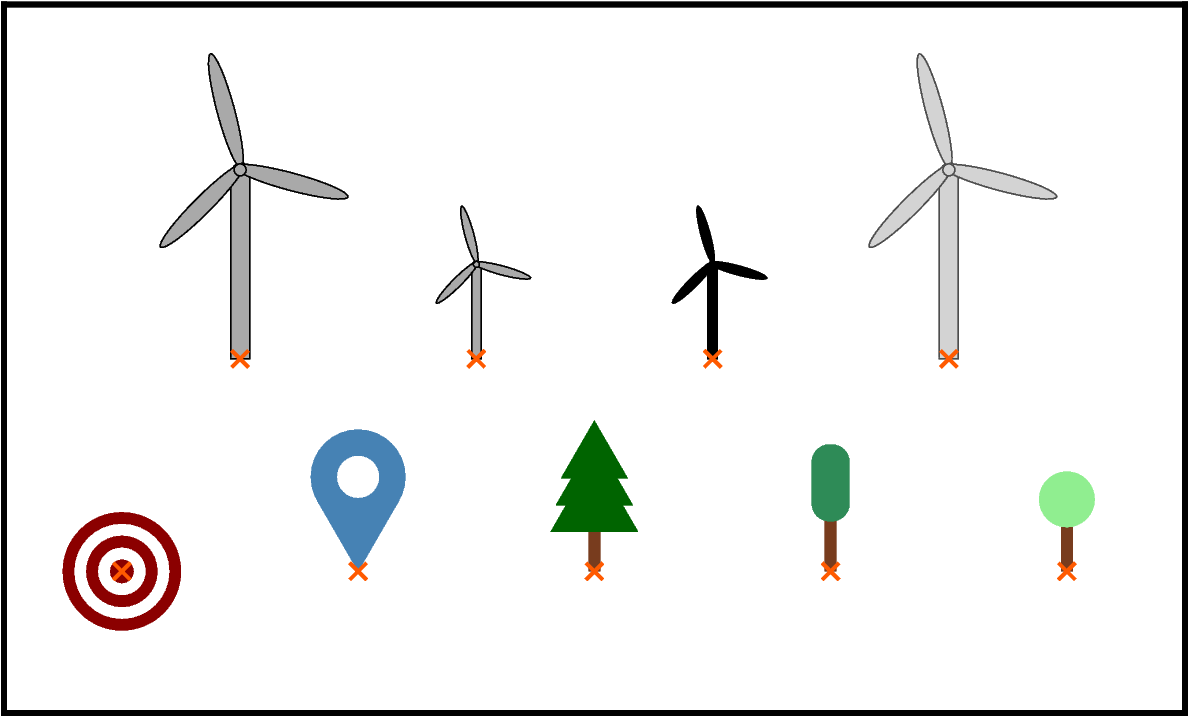
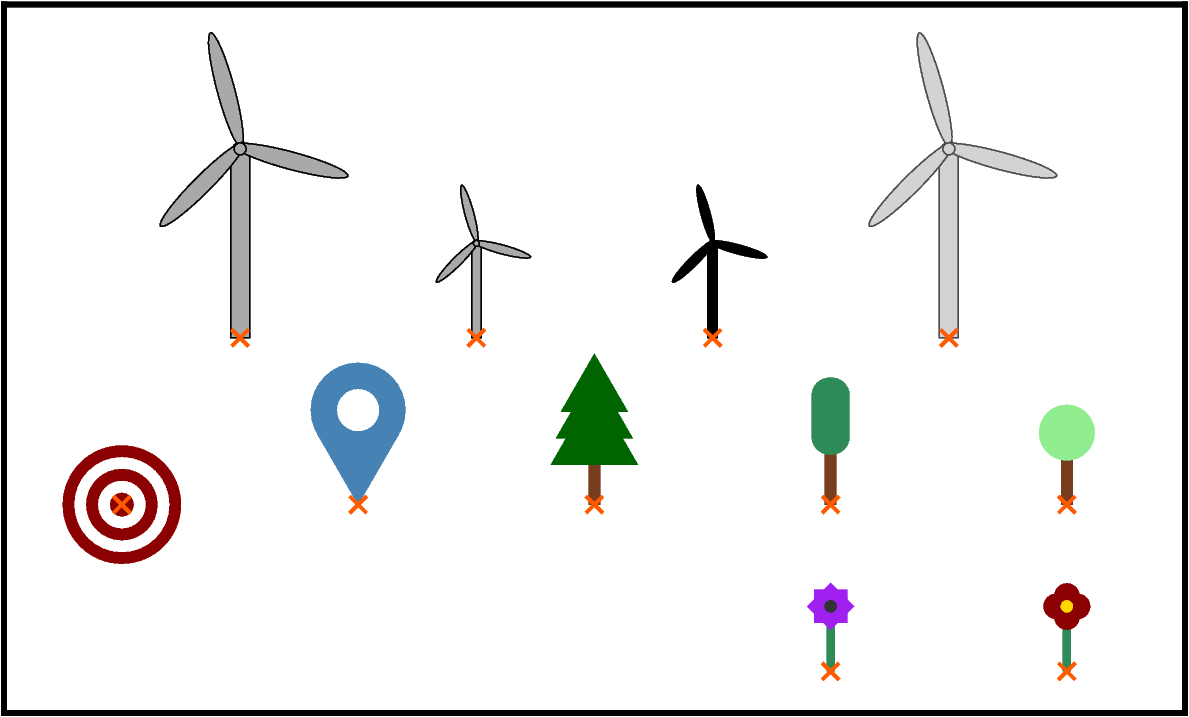
Add custom symbols for flowers

diff --git a/000_general_stuff/01_custom_symbols/custom_symbols.py b/000_general_stuff/01_custom_symbols/custom_symbols.py
@@ -27,12 +27,12 @@ import pygmt as gmt
 
 
 fig = gmt.Figure()
-fig.basemap(region=[-5, 5, -2, 3], projection="X10c/6c", frame=0)
+fig.basemap(region=[-5, 5, -3.5, 5], projection="X10c/6c", frame=0)
 
-fig.plot(x=-3, y=0.5, style="kwindturbine_yf.def/1c", fill="darkgray", pen="black")
-fig.plot(x=-1, y=0.5, style="kwindturbine_yf.def/0.5c", fill="darkgray", pen="black")
-fig.plot(x=1, y=0.5, style="kwindturbine_yf.def/0.5c", fill="black", pen="black")
-fig.plot(x=3, y=0.5, style="kwindturbine_yf.def/1c", fill="lightgray", pen="gray30")
+fig.plot(x=-3, y=1, style="kwindturbine_yf.def/1c", fill="darkgray", pen="black")
+fig.plot(x=-1, y=1, style="kwindturbine_yf.def/0.5c", fill="darkgray", pen="black")
+fig.plot(x=1, y=1, style="kwindturbine_yf.def/0.5c", fill="black", pen="black")
+fig.plot(x=3, y=1, style="kwindturbine_yf.def/1c", fill="lightgray", pen="gray30")
 
 fig.plot(x=-4, y=-1, style="kearthquake_yf.def/1c", fill="darkred")
 fig.plot(x=-2, y=-1, style="kmarker_yf.def/1c", fill="steelblue")
@@ -40,10 +40,13 @@ fig.plot(x=0, y=-1, style="kpinetree_yf.def/1c", fill="darkgreen")
 fig.plot(x=2, y=-1, style="kpoplar_yf.def/1c", fill="seagreen")
 fig.plot(x=4, y=-1, style="ktree_circle_yf.def/1c", fill="lightgreen")
 
+fig.plot(x=2, y=-3, style="kflower_square_yf.def/1c", fill="purple")
+fig.plot(x=4, y=-3, style="kflower_circle_yf.def/1c", fill="darkred")
+
 # Mark plotting points
 fig.plot(
-    x=[-3, -1, 1, 3, -4, -2, 0, 2, 4],
-    y=[0.5, 0.5, 0.5, 0.5, -1, -1, -1, -1, -1],
+    x=[-3, -1, 1, 3, -4, -2, 0, 2, 4, 2, 4],
+    y=[1, 1, 1, 1, -1, -1, -1, -1, -1, -3, -3],
     style="x0.2c",
     fill="255/90/0",
 )
